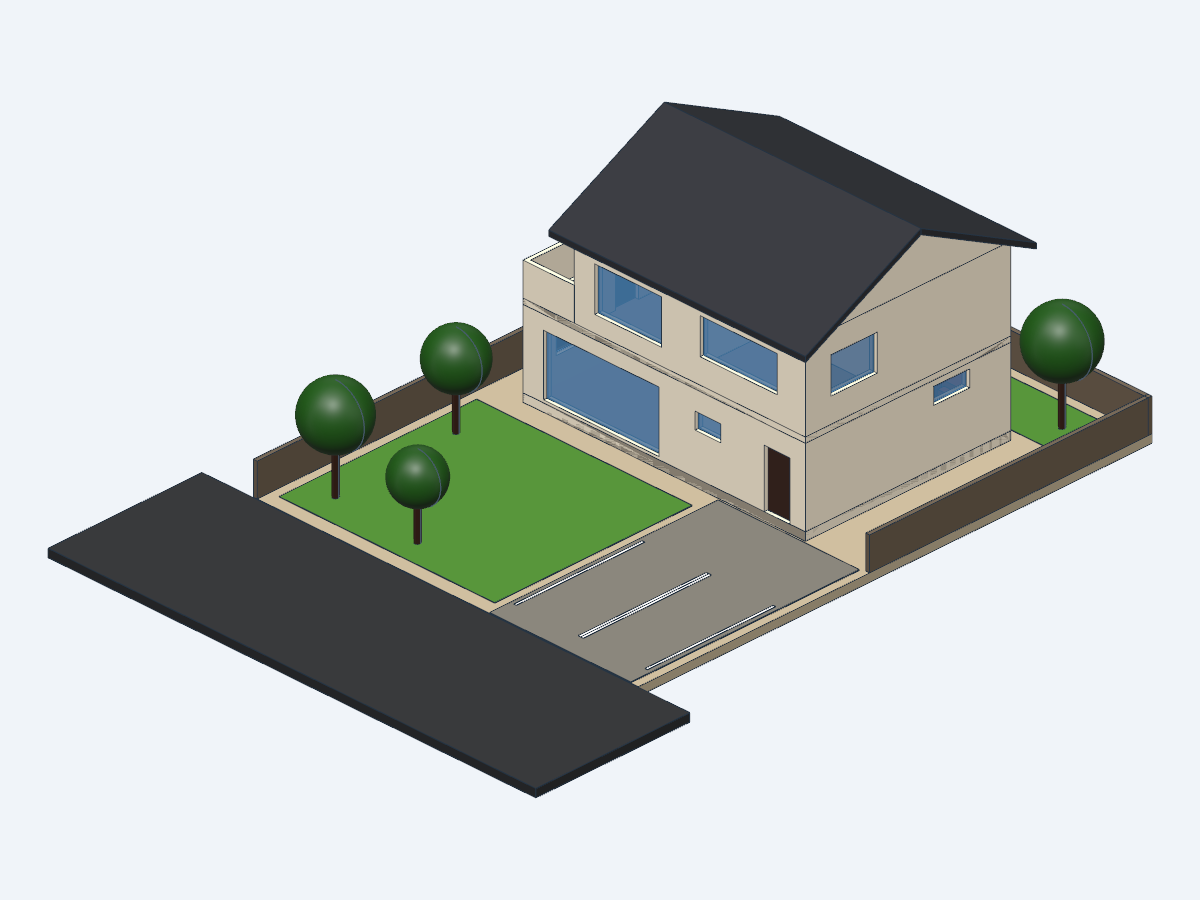
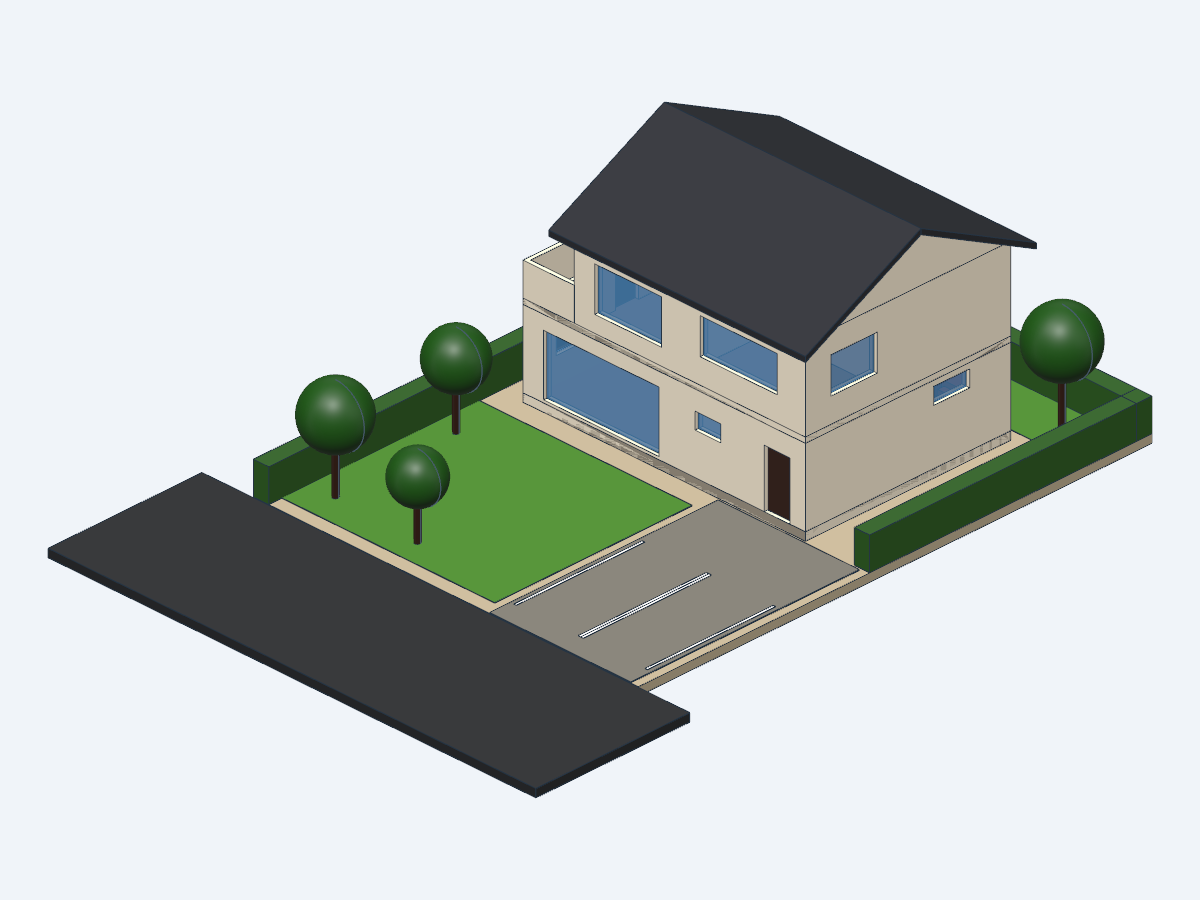
Move house site to Unjung-dong, Seongnam (Seopangyo detached-housing district)
Checks now use Class 1 exclusive residential limits (coverage 50%, FAR 100%,
2 storeys) and the boundary fence becomes a 1.2 m hedge. The lot number is
left to be confirmed on eum.go.kr; lot size stays 15 x 20 m as an assumption.

Claude-Session: https://claude.ai/code/session_01HkcFpm3UNzZLeJr3z9MnjB

diff --git a/house/check.py b/house/check.py
@@ -19,12 +19,12 @@ need_park = 1 + max(0.0, gfa - 150) / 100     # 주차장법 시행령 별표1: 
 need_park = int(need_park + 0.5)              # 0.5 미만 버림
 
 rows = [
-    ("건폐율", f"{footprint:.1f}/{lot:.0f} = {footprint / lot:.1%}", "≤ 60%", footprint / lot <= 0.60,
-     "국토계획법 시행령 제84조 (제1종일반주거)"),
-    ("용적률", f"{gfa:.1f}/{lot:.0f} = {gfa / lot:.1%}", "≤ 200% (조례 ≤ 180% 가정)", gfa / lot <= 1.80,
+    ("건폐율", f"{footprint:.1f}/{lot:.0f} = {footprint / lot:.1%}", "≤ 50%", footprint / lot <= 0.50,
+     "국토계획법 시행령 제84조 (제1종전용주거), 지구단위계획"),
+    ("용적률", f"{gfa:.1f}/{lot:.0f} = {gfa / lot:.1%}", "≤ 100% (법정 50~100%)", gfa / lot <= 1.00,
      "국토계획법 시행령 제85조"),
-    ("층수·높이", f"2층, 최고높이 {height:.2f} m", "4층 이하", True,
-     "국토계획법 시행령 별표4"),
+    ("층수·높이", f"2층, 최고높이 {height:.2f} m", "2층 이하 (지구단위계획 가정)", True,
+     "지구단위계획 (확인 필요)"),
     ("정북 일조", f"북측 경계 이격 {north_gap:.1f} m", "높이 10 m 이하 부분 ≥ 1.5 m",
      height <= 10 and north_gap >= 1.5, "건축법 시행령 제86조"),
     ("접도", f"폭 {ROAD_W:.0f} m 도로에 {LOT_W:.0f} m 접함", "4 m 이상 도로에 2 m 이상", True,
@@ -32,12 +32,12 @@ rows = [
     ("주차", f"{len(PARKING)}대 ({PARK_W} x {PARK_D} m)", f"{need_park}대 이상", len(PARKING) >= need_park,
      "주차장법 시행령 별표1, 시행규칙 제3조"),
     ("조경", f"{landscape:.1f} ㎡ ({landscape / lot:.0%})", "조례 기준 (통상 대지의 10~15%)",
-     landscape / lot >= 0.15, "건축법 제42조, 용인시 건축조례"),
+     landscape / lot >= 0.15, "건축법 제42조, 성남시 건축조례"),
     ("계단", f"단높이 {RISE * 1000:.1f}, 단너비 {TREAD * 1000:.0f}, 너비 {STAIR_W * 1000:.0f} mm",
      "≤ 200 / ≥ 240 / ≥ 600 mm", RISE <= 0.2 and TREAD >= 0.24 and STAIR_W >= 0.6,
      "피난·방화구조 규칙 제15조"),
     ("난간", f"테라스 난간 {RAIL_H * 1000:.0f} mm", "≥ 1,200 mm", RAIL_H >= 1.2, "건축법 시행령 제40조"),
-    ("인접 이격", ", ".join(f"{k} {v:.1f} m" for k, v in setbacks.items()), "≥ 0.5 m",
+    ("인접 이격", ", ".join(f"{k} {v:.1f} m" for k, v in setbacks.items()), "≥ 0.5 m (지구단위계획 건축한계선 확인)",
      min(setbacks.values()) >= 0.5, "민법 제242조"),
     ("처마", f"내밀기 {EAVE:.1f} m", "1 m 미만이면 건축면적 불산입", EAVE < 1.0, "건축법 시행령 제119조"),
 ]

diff --git a/house/house.py b/house/house.py
@@ -1,7 +1,8 @@
 """2층 단독주택 + 대지 모델 (text-to-cad / build123d).
 
 좌표: X = 동(東), Y = 북(北), Z = 위. 모델 단위는 mm이고, 아래 치수는 m로 쓰고 M()으로 바꾼다.
-대지: 경기도 용인시 기흥구 제1종일반주거지역의 가상 필지 15 m x 20 m (300 ㎡), 남측 6 m 도로.
+대지: 경기도 성남시 분당구 운중동(서판교 단독주택단지), 제1종전용주거지역·지구단위계획구역.
+     지번은 토지이음에서 확인해 채운다. 대지 형상은 대표 필지 15 m x 20 m (300 ㎡), 남측 6 m 도로로 가정.
 법규 검토 수치는 house/check.py가 이 파일의 상수로 계산한다.
 """
 
@@ -230,12 +231,12 @@ def site():
         for dx in (0, PARK_W):
             lines.append(box(px + dx - 0.05, py, GL + 0.03, px + dx + 0.05, py + PARK_D, GL + 0.04))
     stripes = tag(bd.Compound(children=lines), "parking_2x_2.5x5.0", "#ffffff")
-    # 담장 1.2 m: 서·북·동 경계 (남측 도로변은 열어 둔다)
+    # 생울타리 1.2 m (지구단위계획: 막힌 담장 대신 생울타리·투시형): 서·북·동 경계
     fence = tag(bd.Compound(children=[
-        box(0, 0, GL, 0.15, LOT_D, 1.2),
-        box(0, LOT_D - 0.15, GL, LOT_W, LOT_D, 1.2),
-        box(LOT_W - 0.15, 9.0, GL, LOT_W, LOT_D, 1.2),
-    ]), "fence_1200", "#9a8f80")
+        box(0, 0, GL, 0.6, LOT_D, 1.2),
+        box(0, LOT_D - 0.6, GL, LOT_W, LOT_D, 1.2),
+        box(LOT_W - 0.6, 9.0, GL, LOT_W, LOT_D, 1.2),
+    ]), "hedge_1200", "#5e8f45")
     trees = []
     for x, y, h in [(1.6, 1.6, 4.0), (5.0, 1.4, 3.2), (1.4, 6.5, 3.6), (13.0, 18.5, 4.2), (3.0, 18.6, 3.8)]:
         trunk = bd.Pos(M(x), M(y), 0) * bd.Cylinder(120, M(h * 0.5), align=(bd.Align.CENTER, bd.Align.CENTER, bd.Align.MIN))
@@ -265,7 +266,7 @@ def house():
             f = fills(b, ops, kind, f"{kind}s_{n}", color)
             if f is not None:
                 parts.append(f)
-    return bd.Compound(children=parts, label="house_yongin_300m2")
+    return bd.Compound(children=parts, label="house_seopangyo_unjung_300m2")
 
 
 if __name__ == "__main__":

diff --git a/house/README.md b/house/README.md
@@ -1,4 +1,4 @@
-# 2층 단독주택 (용인 제1종일반주거지역, 가상 필지)
+# 2층 단독주택 (성남시 분당구 운중동, 서판교 단독주택단지)
 
 text-to-cad(build123d)로 만든 대지 + 주택 3D 모델입니다.
 
@@ -7,25 +7,28 @@ text-to-cad(build123d)로 만든 대지 + 주택 3D 모델입니다.
 | ![](images/exterior.png) | ![](images/site_plan.png) |
 | ![](images/floor1.png) | ![](images/floor2.png) |
 
-## 대지 (가정)
+## 대지
 
-- 경기도 용인시 기흥구, 제1종일반주거지역의 **가상 필지**입니다. 실제 지번이 아닙니다.
-- 15 m(동서) × 20 m(남북) = 300 ㎡ (약 90.8평), 남측에서 폭 6 m 도로에 접합니다.
+- 위치: 경기도 성남시 분당구 운중동, 서판교 단독주택단지 (제1종전용주거지역, 지구단위계획구역)
+- 지번: **미확정**입니다. 토지이음(eum.go.kr)에서 필지를 골라 지번·면적·형상을 확인한 뒤 `house.py`의 `LOT_W`, `LOT_D`를 고칩니다.
+- 대지 형상은 이 단지의 대표 필지 크기로 가정했습니다: 15 m(동서) × 20 m(남북) = 300 ㎡, 남측 6 m 도로.
+- 지구단위계획 기준(건폐율 50 %, 용적률 100 %, 2층 이하, 생울타리·투시형 담장)은 일반적으로 알려진 값으로,
+  해당 필지의 결정도서로 확인해야 합니다.
 
 ## 건물 개요
 
 - 철근콘크리트조 2층, 박공지붕(물매 1:2), 최고높이 8.50 m, 층고 3.0 m
 - 1층 88 ㎡: 거실, 주방·식당, 현관, 화장실, 다용도실, 계단
 - 2층 72 ㎡: 안방, 방2, 드레스룸, 욕실, 홀. 서측 1층 지붕 위에 테라스(난간 1.2 m)
-- 주차 2대(2.5 × 5.0 m), 앞마당·북측 정원, 담장 1.2 m
+- 주차 2대(2.5 × 5.0 m), 앞마당·북측 정원, 생울타리 1.2 m
 
 ## 법규 검토 (`check.py`)
 
 | 항목 | 계획 | 기준 | 근거 |
 | --- | --- | --- | --- |
-| 건폐율 | 29.3 % | ≤ 60 % | 국토계획법 시행령 제84조 |
-| 용적률 | 53.3 % | ≤ 200 % (조례 180 % 가정) | 국토계획법 시행령 제85조 |
-| 층수 | 2층 | 4층 이하 | 국토계획법 시행령 별표4 |
+| 건폐율 | 29.3 % | ≤ 50 % | 국토계획법 시행령 제84조, 지구단위계획 |
+| 용적률 | 53.3 % | ≤ 100 % | 국토계획법 시행령 제85조 |
+| 층수 | 2층 | 2층 이하 (지구단위계획 가정) | 지구단위계획 |
 | 정북 일조 | 북측 경계에서 3.0 m | 높이 10 m 이하 부분 ≥ 1.5 m | 건축법 시행령 제86조 |
 | 접도 | 6 m 도로에 15 m 접함 | 4 m 도로에 2 m 이상 | 건축법 제44조 |
 | 주차 | 2대 | 1대 (연면적 160 ㎡) | 주차장법 시행령 별표1 |
